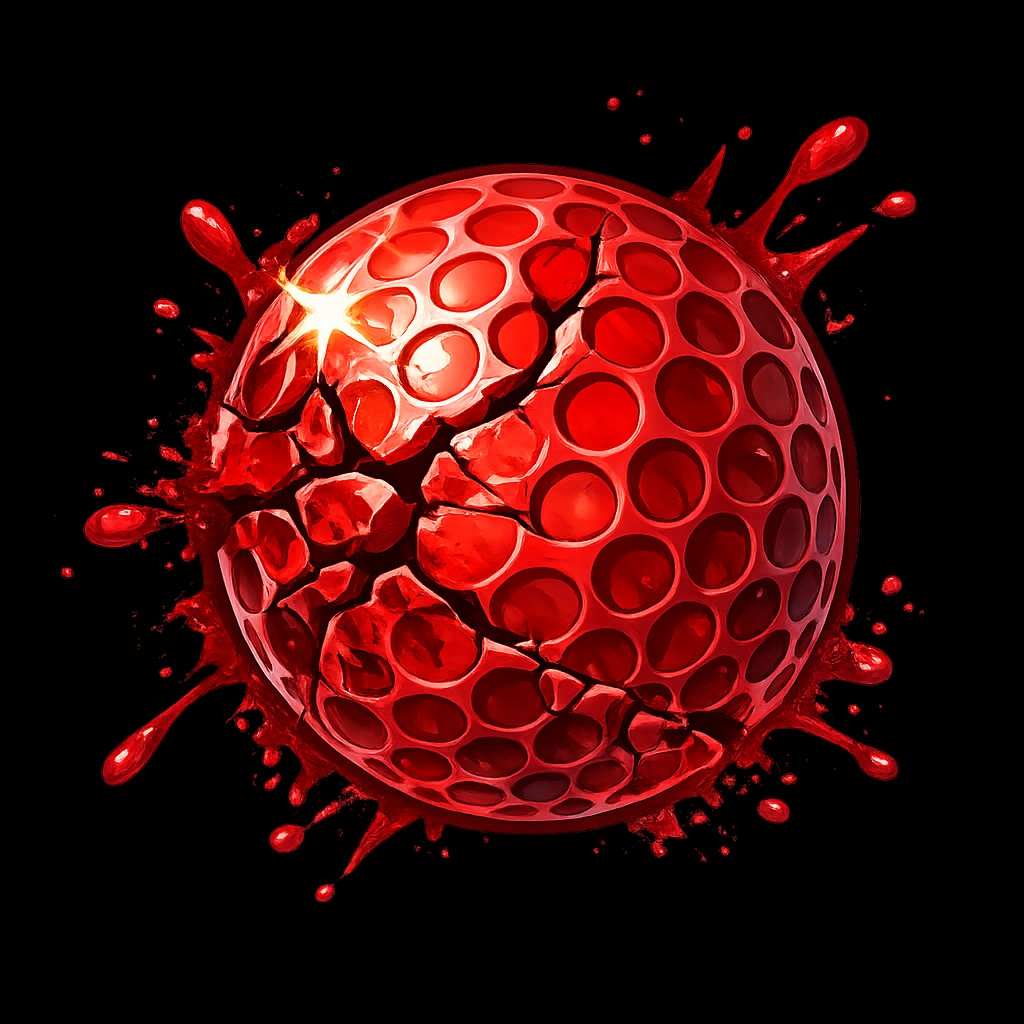
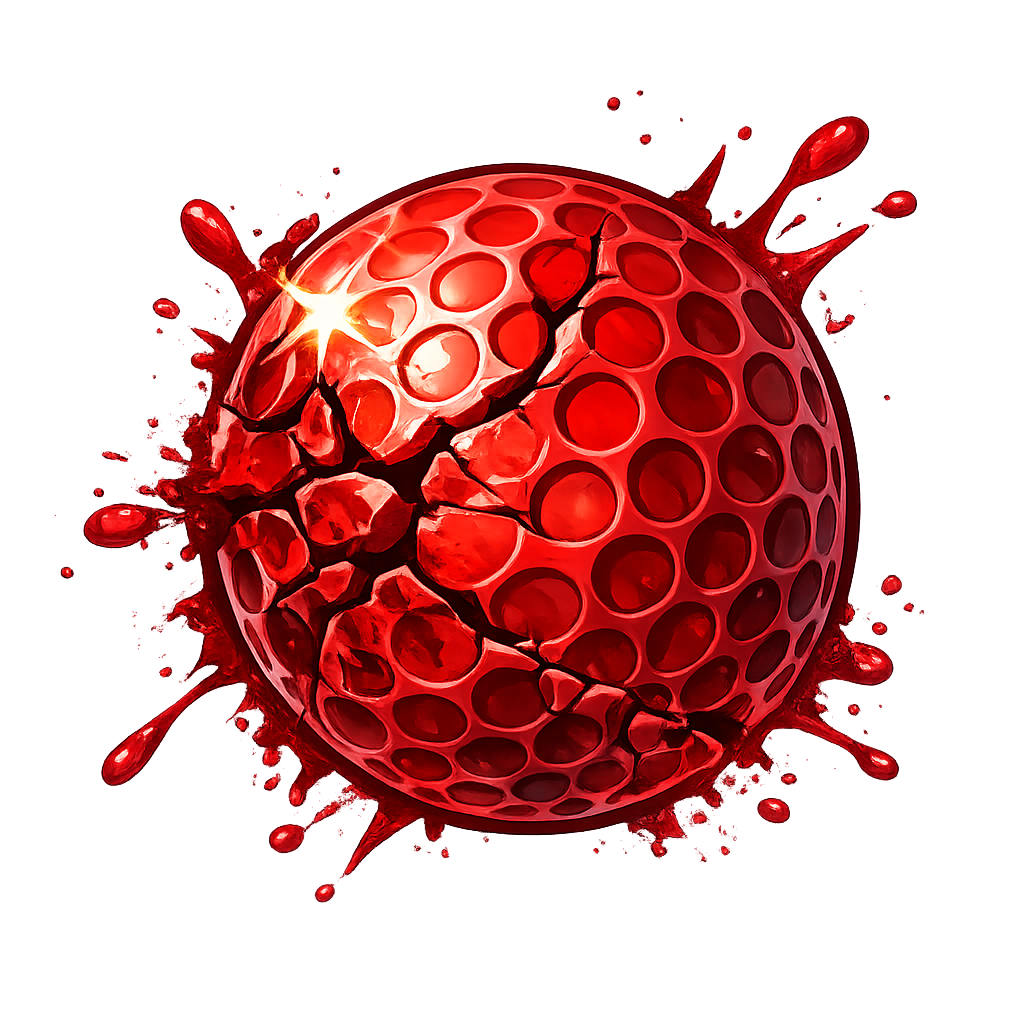
Potential working ball fix (red) / shuffle fix

diff --git a/assets/js/app.js b/assets/js/app.js
@@ -69,6 +69,8 @@
     { file: 'assets/audio/13-winter-hurry.mp3', label: 'Winter (Hurry!)' }
   ];
   var trackIdx = 0;
+  var shuffleOrder = [];
+  var shufflePos = 0;
   var musicOn = false;
 
   /* ---------- loading ---------- */
@@ -235,6 +237,56 @@
   }
 
   /* ---------- music player ---------- */
+  function isHurryTrack(i) {
+    return TRACKS[i].label.indexOf(' (Hurry!)') !== -1;
+  }
+
+  function shuffleEligibleIndices() {
+    var out = [];
+    var i;
+    for (i = 0; i < TRACKS.length; i++) {
+      if (!isHurryTrack(i)) out.push(i);
+    }
+    return out;
+  }
+
+  function shuffleArray(arr) {
+    for (var j = arr.length - 1; j > 0; j--) {
+      var k = Math.floor(Math.random() * (j + 1));
+      var tmp = arr[j];
+      arr[j] = arr[k];
+      arr[k] = tmp;
+    }
+    return arr;
+  }
+
+  function buildShuffleOrder(opts) {
+    opts = opts || {};
+    var pool = shuffleEligibleIndices();
+    if (!pool.length) {
+      shuffleOrder = [0];
+      shufflePos = 0;
+      return;
+    }
+    shuffleOrder = shuffleArray(pool.slice());
+    if (opts.avoidFirst != null && shuffleOrder.length > 1 && shuffleOrder[0] === opts.avoidFirst) {
+      var swap = 1 + Math.floor(Math.random() * (shuffleOrder.length - 1));
+      var t = shuffleOrder[0];
+      shuffleOrder[0] = shuffleOrder[swap];
+      shuffleOrder[swap] = t;
+    }
+    shufflePos = 0;
+  }
+
+  function nextShuffledIdx() {
+    shufflePos++;
+    if (shufflePos >= shuffleOrder.length) {
+      buildShuffleOrder({ avoidFirst: isHurryTrack(trackIdx) ? null : trackIdx });
+      shufflePos = 0;
+    }
+    return shuffleOrder[shufflePos];
+  }
+
   function getTargetVol() {
     return el.mediaVol ? el.mediaVol.value / 100 : 0.3;
   }
@@ -338,7 +390,7 @@
   }
 
   function skipTrack() {
-    goToTrack(trackIdx + 1, musicOn, true);
+    goToTrack(nextShuffledIdx(), musicOn, true);
   }
 
   function initMedia() {
@@ -359,7 +411,8 @@
       }).join('');
     }
 
-    setTrackSource(Math.floor(Math.random() * TRACKS.length));
+    buildShuffleOrder();
+    setTrackSource(shuffleOrder[0]);
     el.mediaAudio.play().then(function () {
       setPlayUi(true);
       fadeVolume(vol, FADE_MS);
@@ -395,8 +448,10 @@
       el.mediaMenu.addEventListener('click', function (e) {
         var btn = e.target.closest('[data-idx]');
         if (!btn) return;
+        var idx = parseInt(btn.getAttribute('data-idx'), 10);
         closeTrackMenu();
-        goToTrack(parseInt(btn.getAttribute('data-idx'), 10), true, true);
+        if (!isHurryTrack(idx)) shufflePos = shuffleOrder.indexOf(idx);
+        goToTrack(idx, true, true);
       });
     }
 
@@ -415,7 +470,7 @@
     });
 
     el.mediaAudio.addEventListener('ended', function () {
-      if (musicOn) goToTrack(trackIdx + 1, true, false);
+      if (musicOn) goToTrack(nextShuffledIdx(), true, false);
     });
   }
 